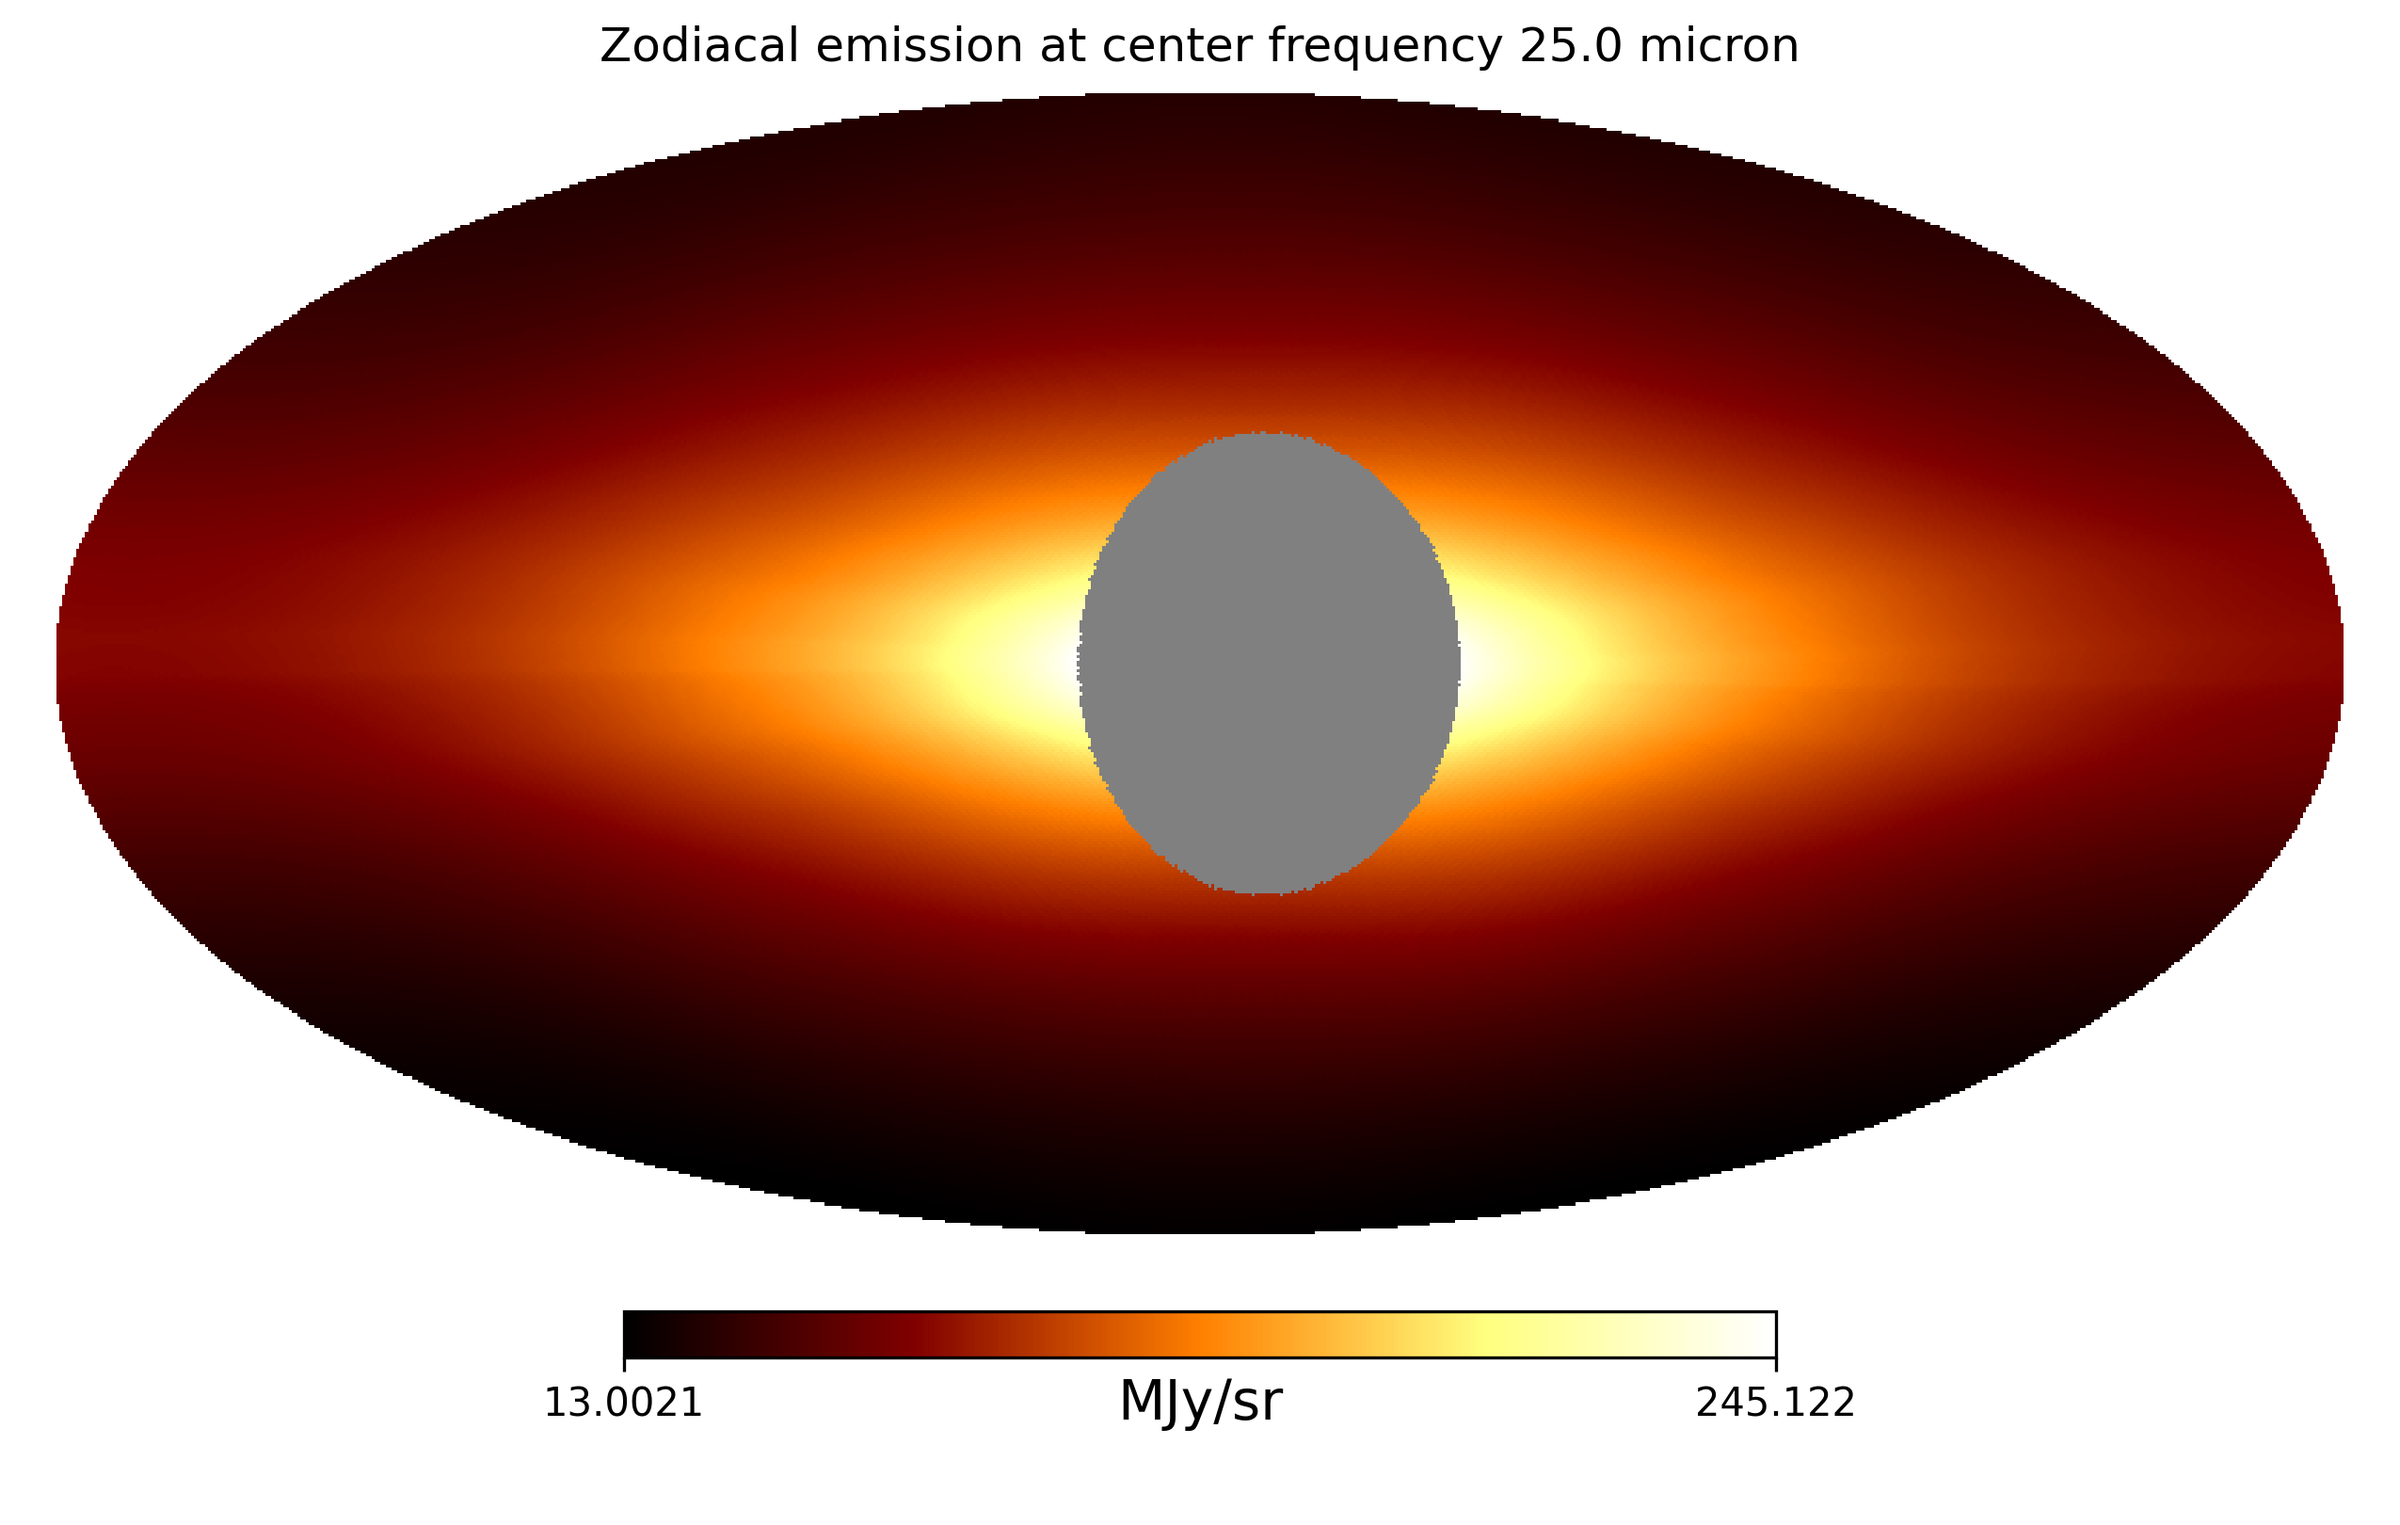
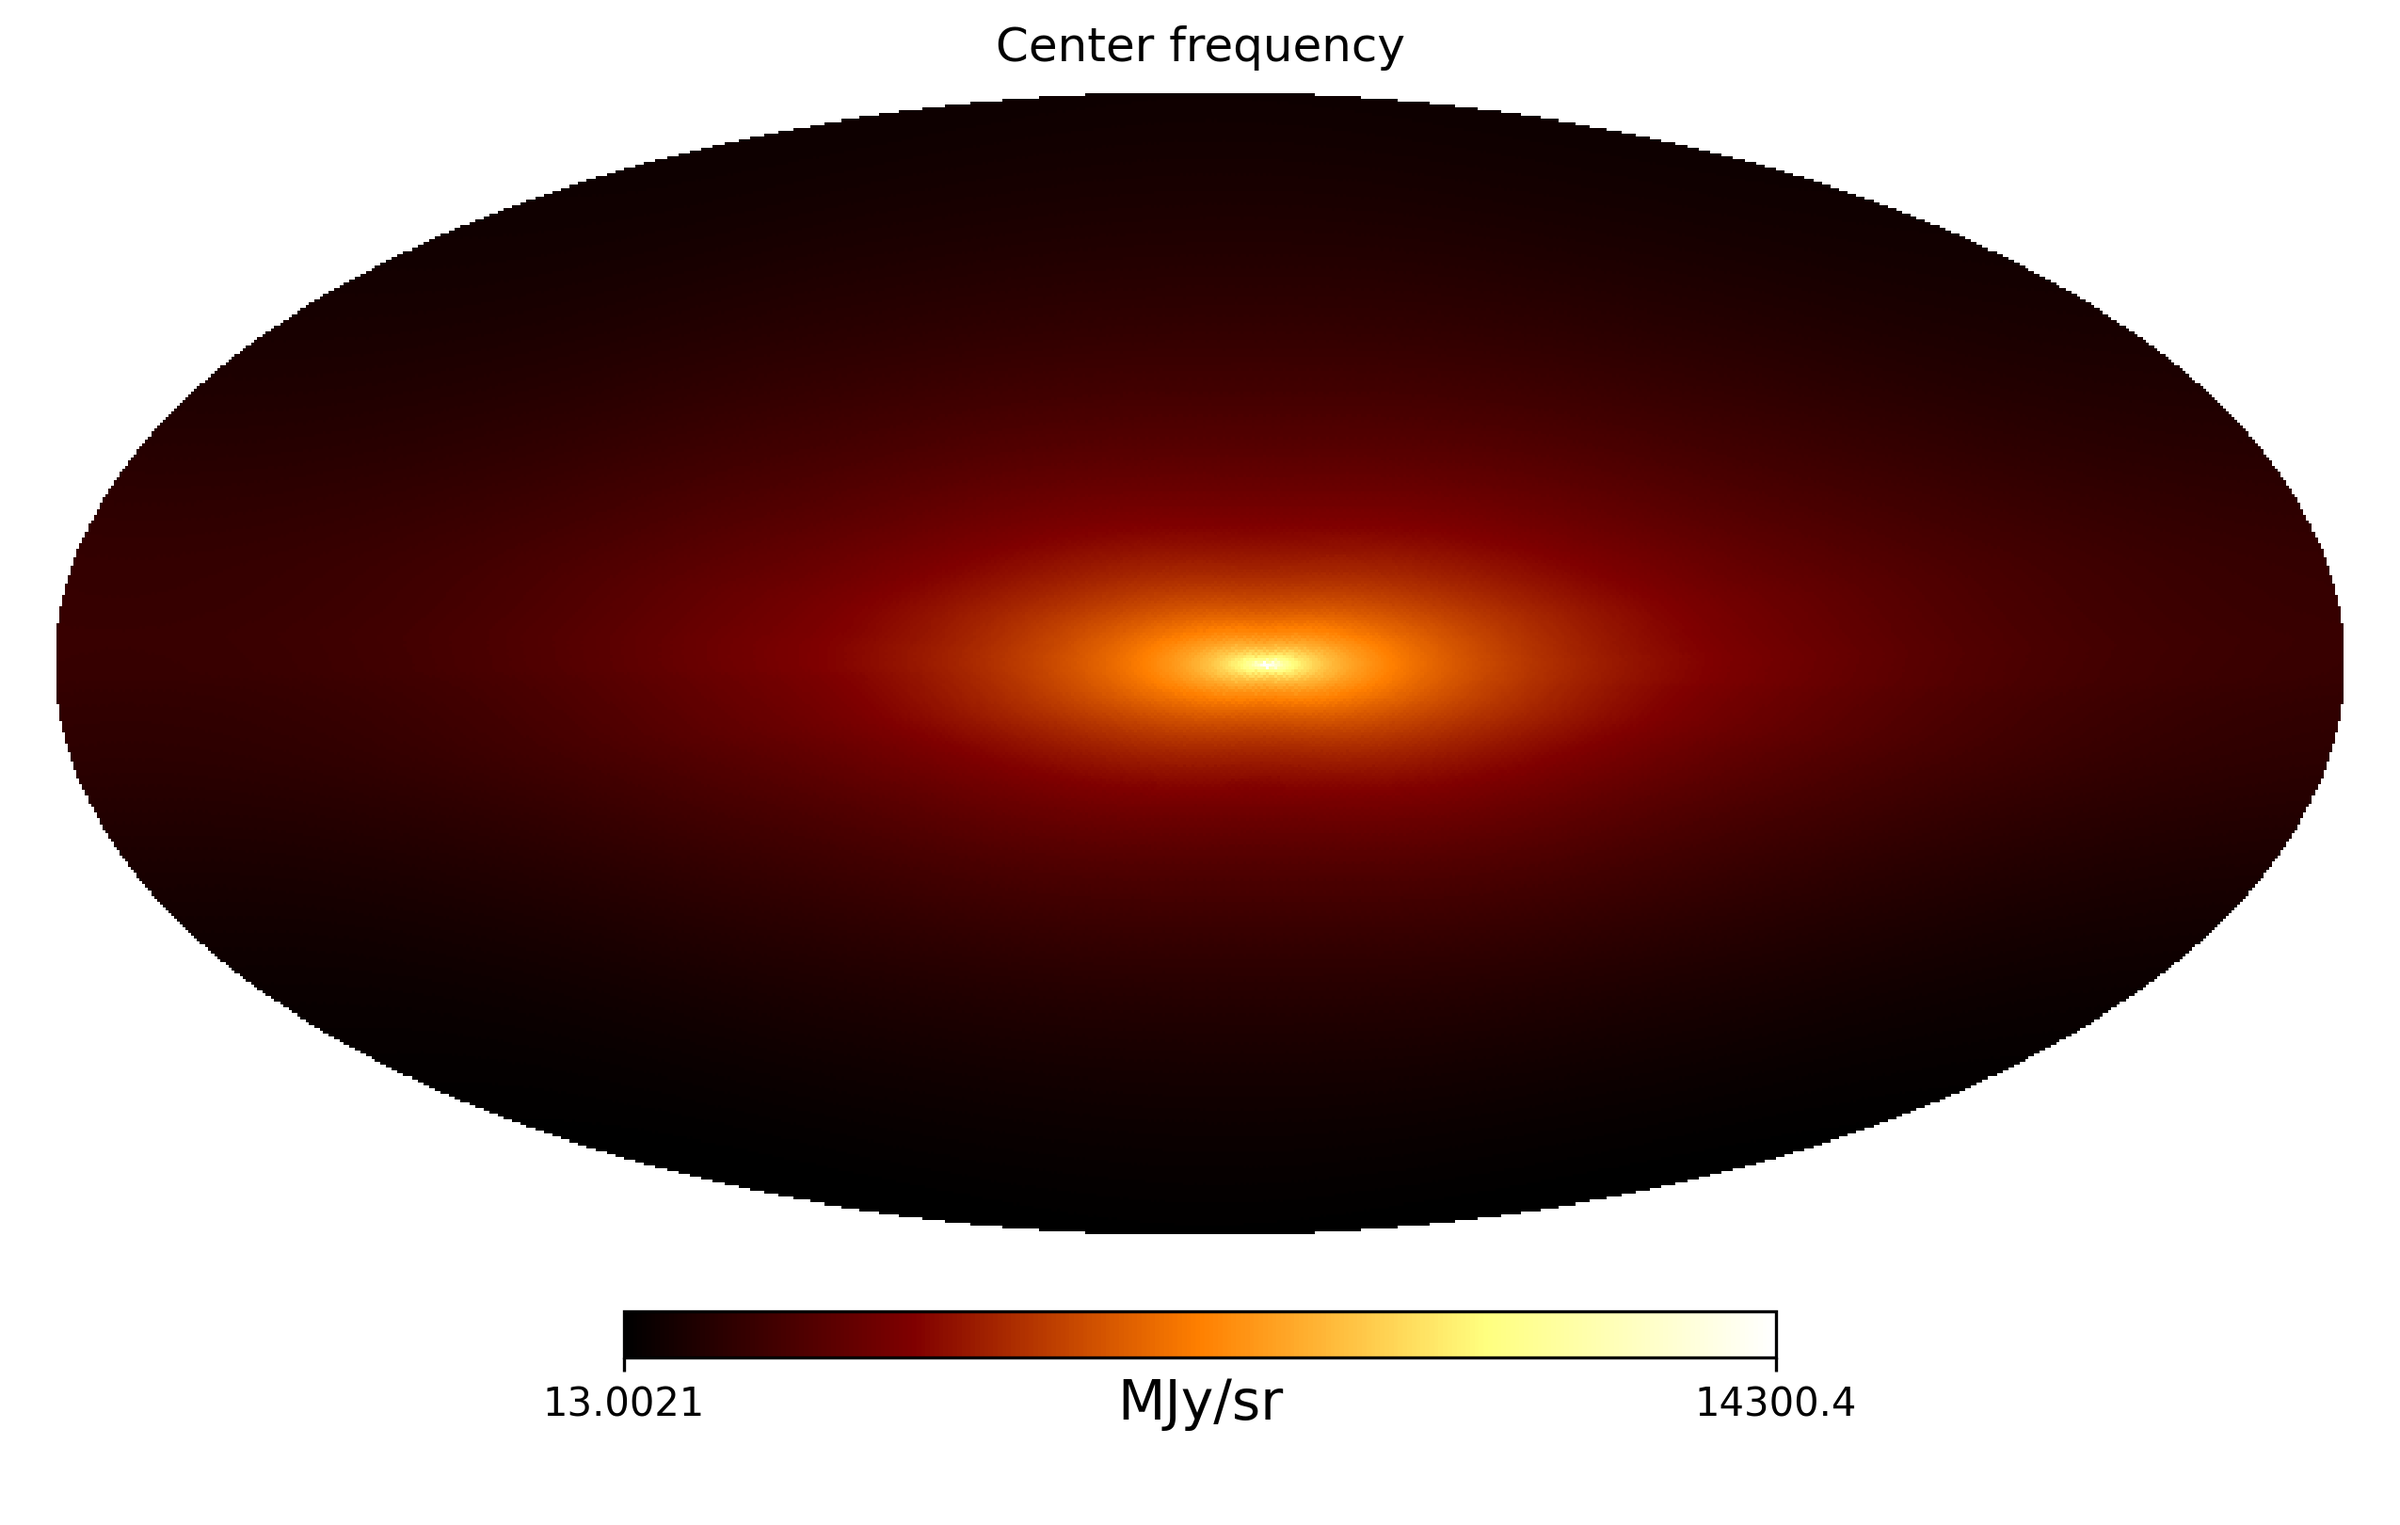
Update docs

diff --git a/docs/examples/get_bandpass_integrated_emission.py b/docs/examples/get_bandpass_integrated_emission.py
@@ -7,27 +7,17 @@ from astropy.time import Time
 from zodipy import Zodipy
 
 nside = 128
-seed = 42
-rng = np.random.default_rng(seed)
-
 
 center_freq = 25 * u.micron
-n_freqs = 50
-freqs = np.linspace(
-    start=center_freq - 5 * u.micron, stop=center_freq + 5 * u.micron, num=n_freqs
-)
-
-# Generate a (not very realistic bandpass
-weights = rng.random(n_freqs) * u.MJy / u.sr
-weights /= np.trapz(weights, freqs).value
+freqs = np.linspace(20, 30, 11) * u.micron
+weights = np.array([2, 3, 5, 9, 11, 11.5, 11, 9, 5, 3, 2])
 
 plt.plot(freqs, weights)
 plt.xlabel("Frequency [micron]")
-plt.ylabel("Weight [normalized MJy/sr]")
-plt.title("Random generated bandpass")
-# plt.savefig("../img/random_bandpass.png", dpi=300)
+plt.ylabel("Weights")
+plt.savefig("../img/bandpass.png", dpi=300)
 
-model = Zodipy("dirbe", solar_cut=30 * u.deg)
+model = Zodipy()
 
 emission_central_freq = model.get_binned_emission_pix(
     freq=center_freq,
@@ -48,19 +38,19 @@ emission_bandpass_integrated = model.get_binned_emission_pix(
 
 hp.mollview(
     emission_central_freq,
-    title=f"Zodiacal emission at center frequency {center_freq}",
+    title=f"Center frequency",
     unit="MJy/sr",
     norm="log",
     cmap="afmhot",
 )
-# plt.savefig("../img/center_freq.png", dpi=300)
+plt.savefig("../img/center_freq.png", dpi=300)
 
 hp.mollview(
     emission_bandpass_integrated,
-    title="Zodiacal emission bandpass integrated",
+    title="Bandpass integrated",
     unit="MJy/sr",
     norm="log",
     cmap="afmhot",
 )
-# plt.savefig("../img/bandpass_integrated.png", dpi=300)
+plt.savefig("../img/bandpass_integrated.png", dpi=300)
 plt.show()

diff --git a/docs/examples/get_emission_ang.py b/docs/examples/get_emission_ang.py
@@ -18,8 +18,8 @@ emission = model.get_emission_ang(
 )
 
 
-plt.plot(emission)
+plt.plot(theta, emission)
 plt.xlabel("Theta [rad]")
 plt.ylabel("Emission [MJy/sr]")
-# plt.savefig("../img/timestream.png", dpi=300)
+plt.savefig("../img/timestream.png", dpi=300)
 plt.show()

diff --git a/docs/usage.md b/docs/usage.md
@@ -1,8 +1,7 @@
 ## Timestreams
 Below we illustrate how ZodiPy can be used to create timestreams of the zodiacal emission. 
 Note that since ZodiPy assumes a constant observer position over the input pointing sequence, the output
-will not be *real* timestreams, but for small enough time intervals ($\Delta t$ < 1 day) the error is 
-negligable.
+will not be *real* timestreams, but for small enough time intervals the error is negligible.
 
 
 ### Emission along a meridian
@@ -19,7 +18,7 @@ DIRBE interplanetary dust model.
 !!! note
     ZodiPy assumes a constant observer position over an input pointing sequence. For an observer on Earth, 
     the true zodiacal emission signal will move along the ecliptic on the sky by roughly one degree each day. 
-    To account for this effect, the full pointing sequence of an experiment must be chunked into small 
+    To account for this effect, the full pointing sequence of an experiment should be chunked into small 
     subsequences with timescales corresponding to at maximum a day.
 
 
@@ -75,13 +74,11 @@ read [Cosmoglobe: Simulating Zodiacal Emission with ZodiPy](https://arxiv.org/ab
 Instruments do not typically observe at delta frequencies. Usually, we are more interested in finding out
 what the emission looks like over some instrument bandpass. ZodiPy will accept a sequence of frequencies to the `freq`
 argument in addition to the corresponding bandpass weights to the `weights` argument and perform bandpass integration. 
-Note that the bandpass weights must be given in power units (even if it is normalized), i.e. they must be in units 
-compatible with `Jy/sr`. A top hat
-bandpass is assumed if a sequence of frequencies are used without providing weights.
+Note that the bandpass weights must be in spectral radiance units (Jy/sr), even though the weights them self are unitless. A top hat bandpass is assumed if a sequence of frequencies are used without providing weights.
 ```python hl_lines="32 33"
 {!examples/get_bandpass_integrated_emission.py!}
 ```
-![Generated Bandpass](img/random_bandpass.png)
+![Generated Bandpass](img/bandpass.png)
 ![Center frequency emission](img/center_freq.png)
 ![Bandpass integrated emission](img/bandpass_integrated.png)
 

diff --git a/docs/index.md b/docs/index.md
@@ -41,7 +41,7 @@ What's going on here:
 - The first argument to the [`get_emission_ang`][zodipy.zodipy.Zodipy.get_emission_ang] method, `25 * u.micron`, specifies the wavelength (or frequency) of the simulated observation. Note that we use Astropy units for many of the input arguments.
 - `theta` and `phi` represent the pointing of the observation (co-latitude and longitude). In this example we observe three sky coordinates.
 - `obs_time` represents the time of observation which is used internally to compute the position of the observer and all other required solar system bodies.
-- `obs` represents the observer, and must be an solar system observer supported by the [Astropy ephemeris](https://docs.astropy.org/en/stable/coordinates/solarsystem.html) used internally.
+- `obs` represents the observer, and must be an solar system observer supported by the [Astropy ephemeris](https://docs.astropy.org/en/stable/coordinates/solarsystem.html) used internally. If we wish to be more specific about the observer position, we can use the `obs_pos` keyword instead of `obs`, which takes in a heliocentric cartesian position in units of AU.
 - `lonlat` is a boolean which converts the convention of `theta` and `phi` from co-latitude and longitude to longitude and latitude.
 
 For more information on using ZodiPy, see [the usage section](usage.md).

diff --git a/docs/install.md b/docs/install.md
@@ -6,8 +6,12 @@ Installing ZodiPy is as simple as:
 pip install zodipy
 ```
 
+!!! note
+    ZodiPy supports python versions >=3.8 , <3.11.
+    Support for Python 3.11 is pending `numba` 3.11 support.
+
 ## Dependencies
-ZodiPy has the following dependencies:
+ZodiPy has the following dependencies (these are automatically downloaded alongside ZodiPy):
 
 - [astropy](https://www.astropy.org) (>= 5.0.1)
 - [healpy](https://healpy.readthedocs.io/en/latest/)
